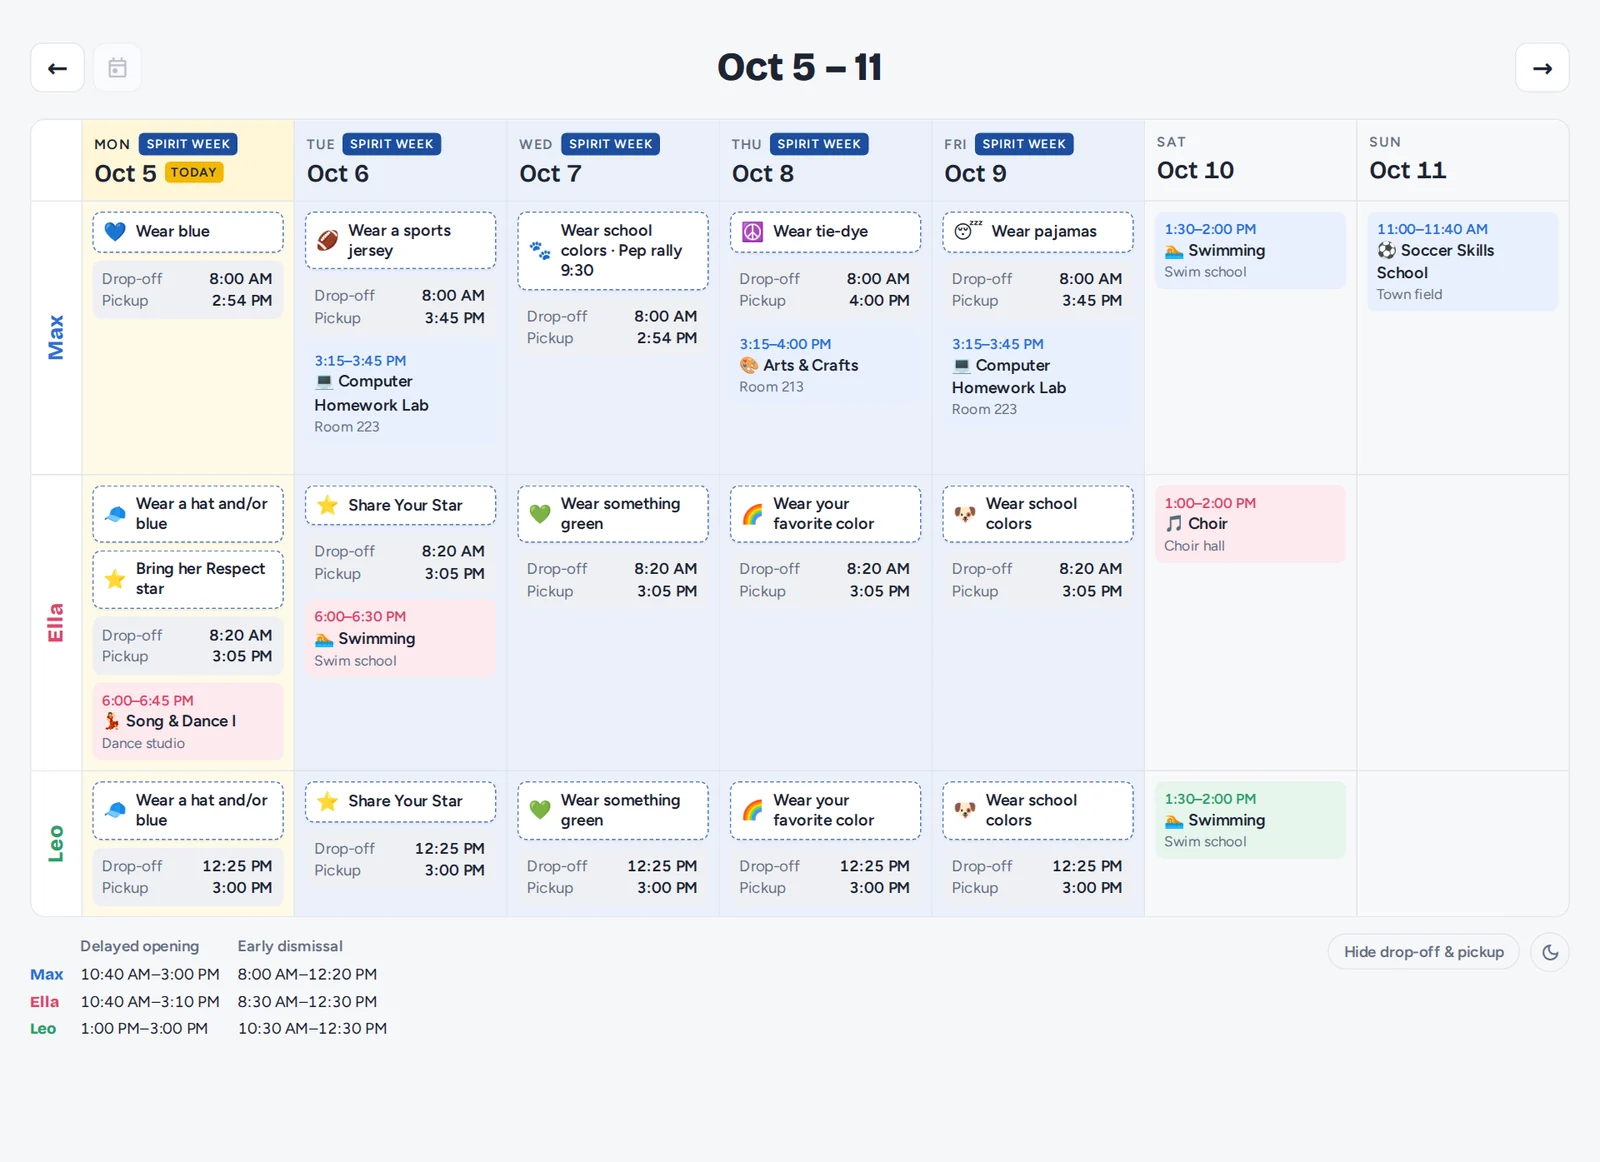
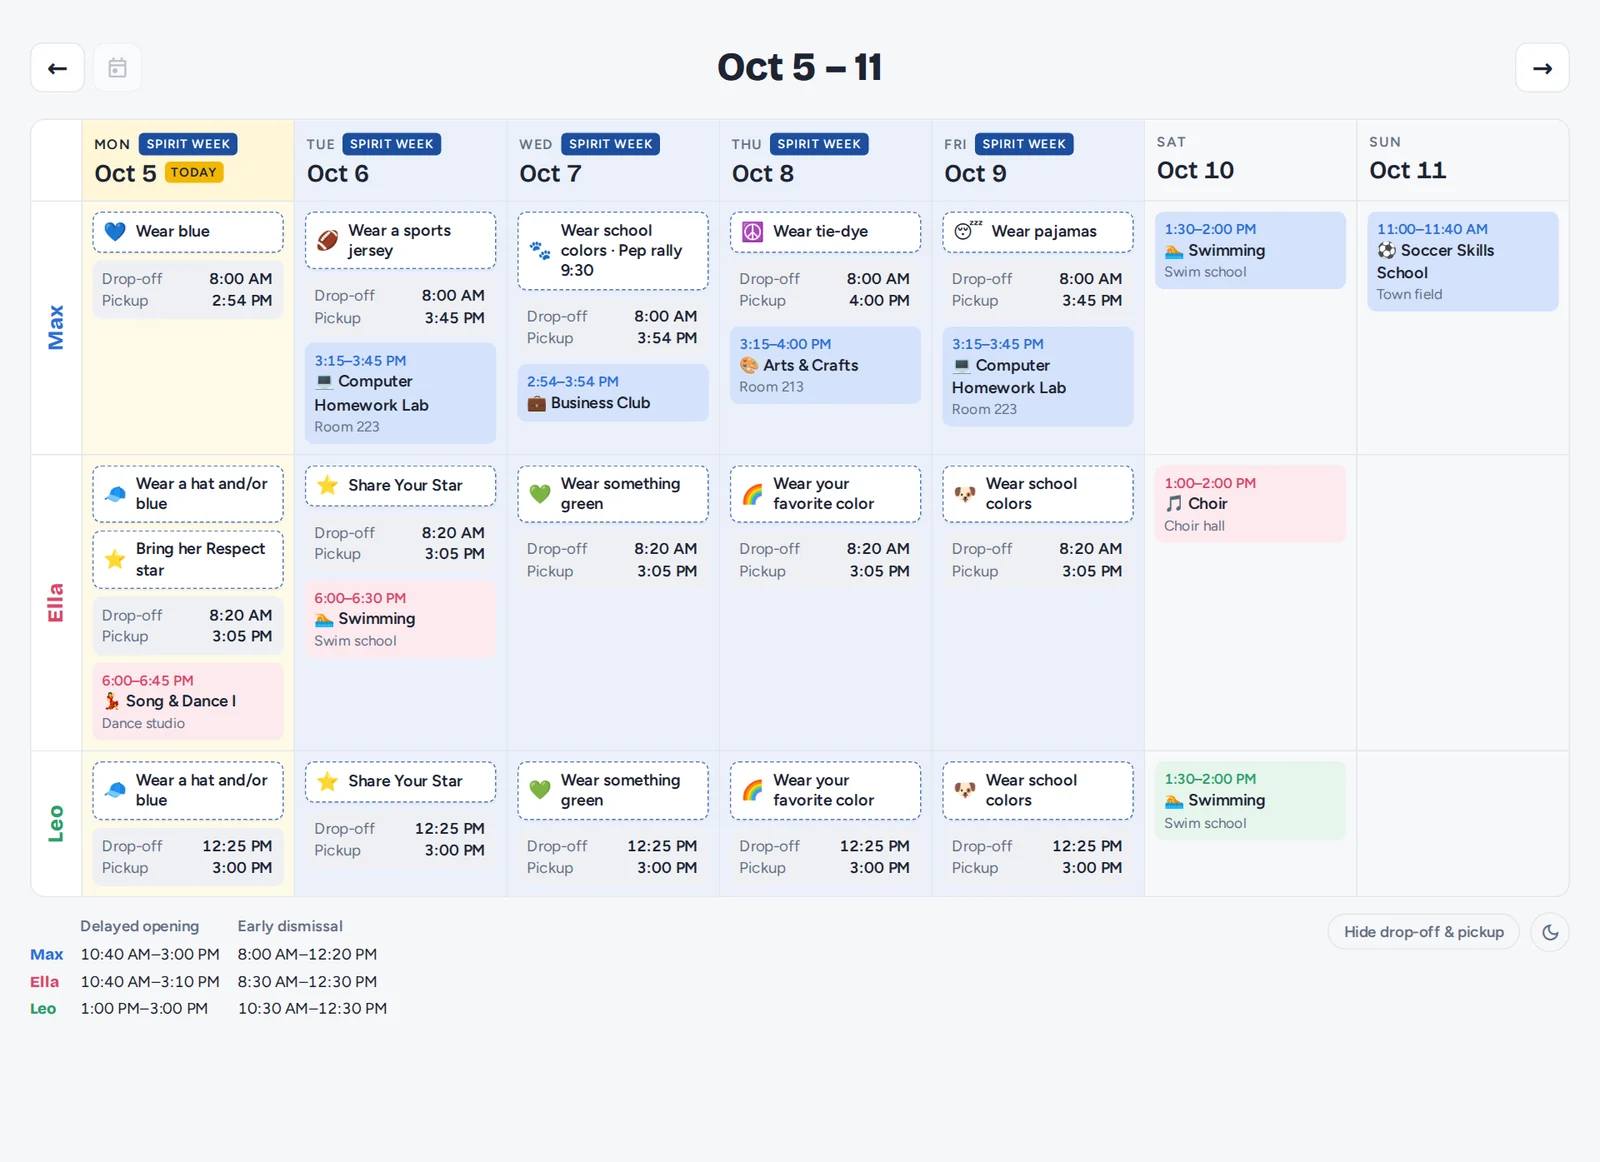
Kids Week: refreshed screens for the deeper card tint; log entry
Claude-Session: https://claude.ai/code/session_01FwLkREGe3toZwvum8prih7

diff --git a/kids-week.html b/kids-week.html
@@ -236,7 +236,7 @@
           <ul>
             <li><span class="ms" aria-hidden="true">auto_fix_high</span><span>The arrows move a full screen of days instead of one, and past days fade back.</span></li>
             <li><span class="ms" aria-hidden="true">auto_fix_high</span><span>The drop-off toggle and the theme button moved under the grid, out of the title area.</span></li>
-            <li><span class="ms" aria-hidden="true">auto_fix_high</span><span>No-school amber and white outfit cards replaced colors that clashed with a child's color and with Today.</span></li>
+            <li><span class="ms" aria-hidden="true">auto_fix_high</span><span>No-school amber, white outfit cards and a deeper blue for one child's activities replaced colors that clashed with a child's color, with Today and with the Spirit Week tint.</span></li>
             <li><span class="ms" aria-hidden="true">auto_fix_high</span><span>A drop-in club can be marked "only if free." Homework lab now shows up only on afternoons with nothing else planned, instead of on fixed days.</span></li>
           </ul>
           <p><b>Fixes</b></p>
